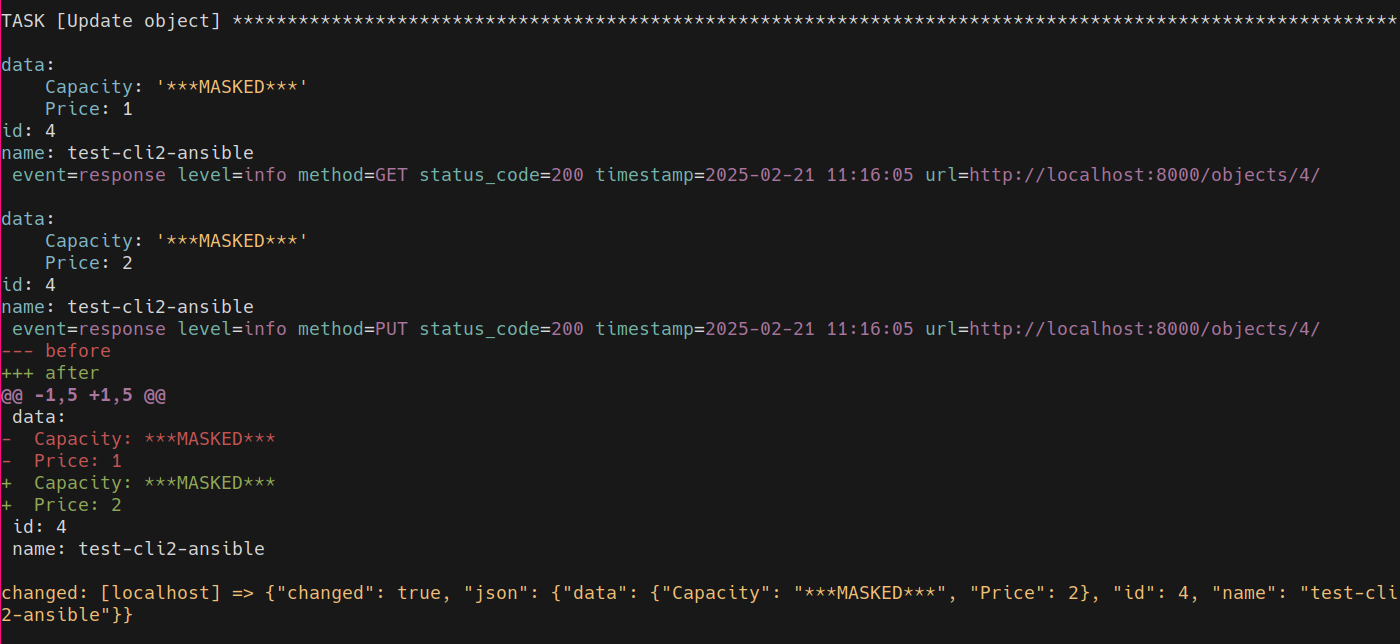
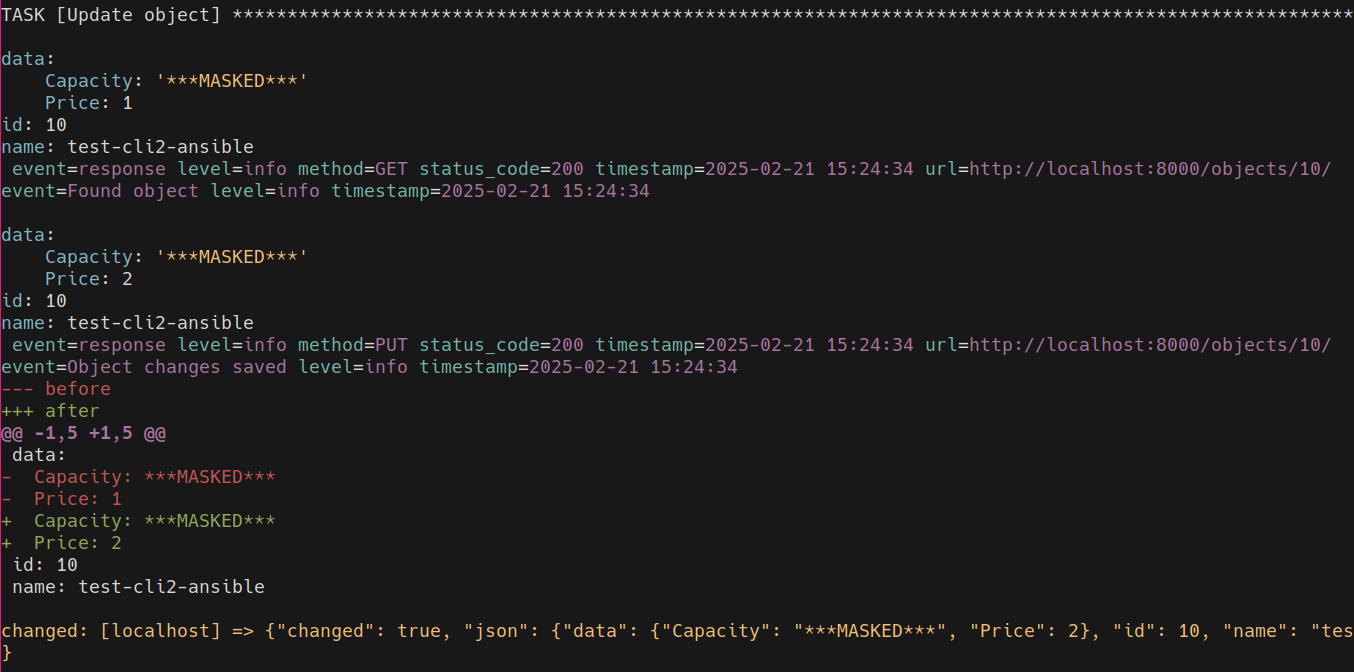
Ansible module logging

Changed region(s): [[0.0, 0.0, 1.0, 0.9627]]

diff --git a/tests/yourlabs/test/plugins/action/restful_api.py b/tests/yourlabs/test/plugins/action/restful_api.py
@@ -19,12 +19,16 @@ class ActionModule(ansible.ActionBase):
         elif self.name:
             obj = await self.client.Object.find(name=self.name).first()
 
+        if obj:
+            self.logger.info(f'Found object')
+
         if self.state == 'absent':
             if obj:
                 response = await obj.delete()
                 key, value = self.client.response_log_data(response)
                 self.result[key] = value
                 self.result['changed'] = True
+                self.logger.info(f'Deleted object')
             return
 
         if obj is not None:
@@ -40,6 +44,7 @@ class ActionModule(ansible.ActionBase):
 
         if obj.changed_fields:
             response = await obj.save()
+            self.logger.info(f'Object changes saved')
             key, value = self.client.response_log_data(response)
             self.result[key] = value
             self.result['changed'] = True

diff --git a/cli2/ansible.py b/cli2/ansible.py
@@ -8,6 +8,7 @@ import copy
 import mock
 import os
 import re
+import structlog
 import traceback
 
 from cli2 import logging
@@ -166,6 +167,9 @@ class ActionBase(ActionBase):
                 self.client = await self.client_factory()
             except NotImplementedError:
                 self.client = None
+                self.logger = structlog.get_logger('cli2')
+            else:
+                self.logger = self.client.logger
             await self.run_async()
         except Exception as exc:
             self.result['failed'] = True

diff --git a/docs/ansible.rst b/docs/ansible.rst
@@ -26,6 +26,39 @@ With :py:class:`cli2.ansible.ActionBase`, we don't define run, we define
             self.task_vars  # is the usual task_vars arg
             self.result['failed'] = True
 
+Logging
+-------
+
+.. code-block:: python
+
+    from cli2 import ansible
+
+    class ActionModule(ansible.ActionBase):
+        async def run_async(self):
+            self.logger.debug('Getting something')
+            something = get_something()
+            self.logger.info('Got something', json=something)
+
+And then you get absolutely beautiful logging:
+
+- ``json`` logger key is configured to render as colored yaml
+- with ``-v``: log level will be set to ``INFO``, which you should you use to
+  indicate that something **has been done**
+- with ``-vv``: log level will be set to ``DEBUG``, which you should you use to
+  indicate that something **is going to be attempted**
+
+Without ``-v``:
+
+.. image:: ansible_log_nov.png
+
+With ``-v``:
+
+.. image:: ansible_log_v.png
+
+With ``-vv``:
+
+.. image:: ansible_log_vv.png
+
 Option
 ------
 
@@ -39,6 +72,9 @@ fiddling with task_vars:
 
         async def run_async(self):
             self.result['name'] = self.name
+
+An option can specify an argument name, and/or a global fact name, and a
+default.
 
 Client
 ------
@@ -67,10 +103,10 @@ And then you get absolutely beautiful logging:
 - with ``-vv``: log level will be set to ``DEBUG``, which means you will see
   requests too.
 
-There is no way to set :envvar:`DEBUG`, as we never want masked secrets to
-output in an Ansible Tower job. But you can still export ``DEBUG=1`` prior to
-executing Ansible manually, which will dump all pagination requests/responses
-and secrets.
+There is no way to set :envvar:`DEBUG` from ansible, as we never want masked
+secrets to output in an Ansible Tower job. But you can still export ``DEBUG=1``
+prior to executing Ansible manually, which will dump all pagination
+requests/responses and secrets.
 
 Without ``-v``:
 

diff --git a/docs/tutorial.rst b/docs/tutorial.rst
@@ -114,7 +114,6 @@ Same if you want to use the posix style:
     cmd.parse('a', 'b', '--c=d')
     assert cmd.bound.arguments == dict(somearg='a', x='b', kwargs={'c': 'd'})
 
-
 Entry point
 -----------
 
